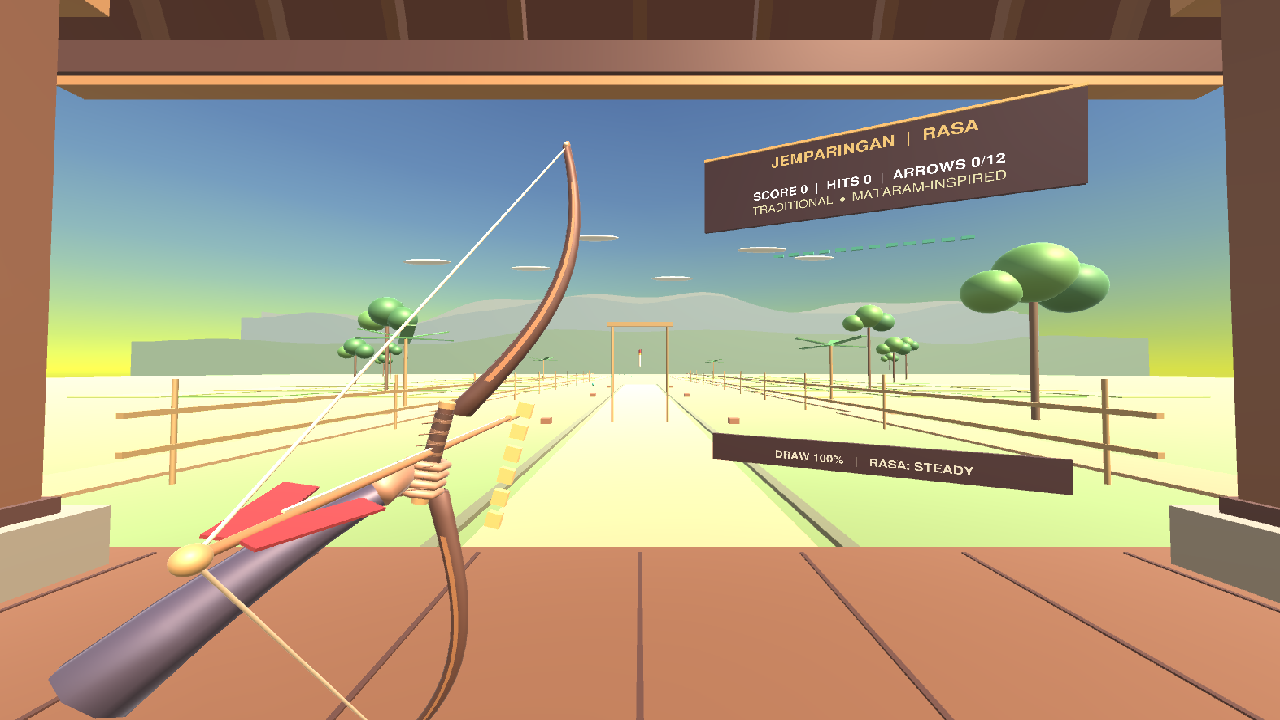
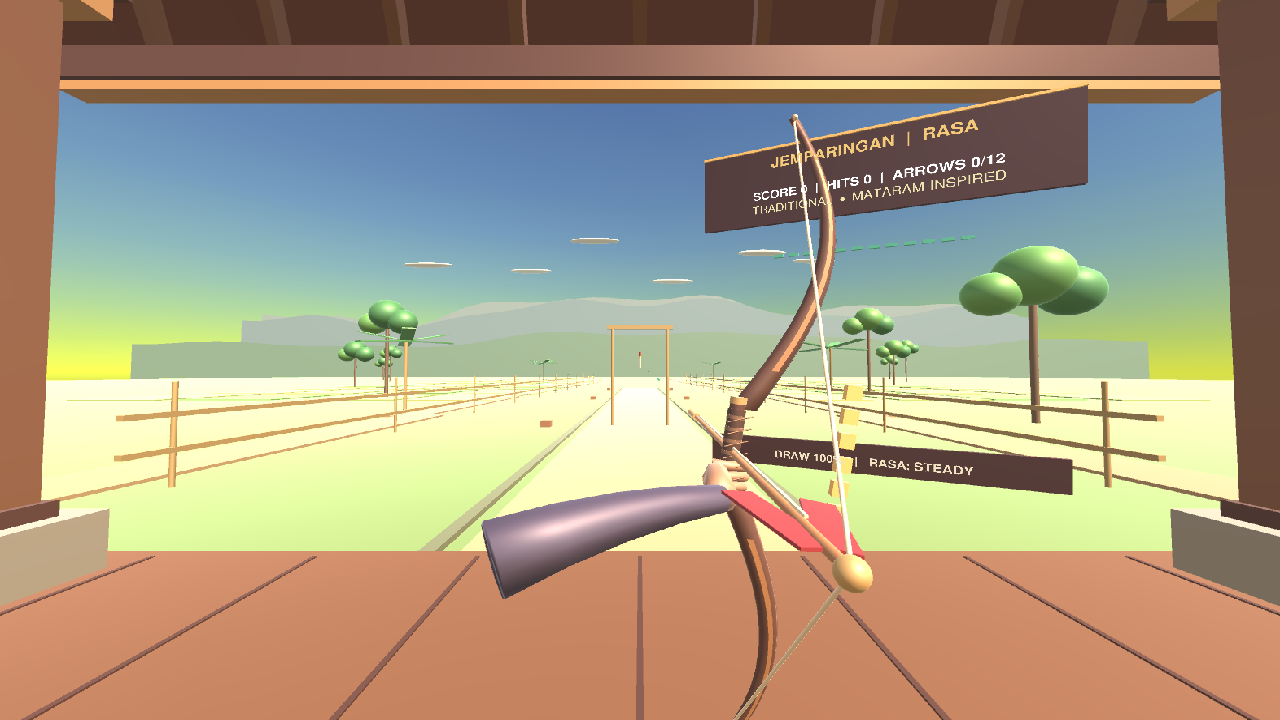
feat(traditional): polish first-person bow handling and aiming framing
- Reposition bow slightly right of center with an 8-degree outward cant, opening an unobstructed central sightline to the bandulan.
- Anchor left forearm entering naturally from lower-left screen boundary to the bow grip with 0.0 error and realistic length (~0.313m).
- Converge launch direction from the offset bow origin to the target sightline, eliminating visual parallax while preserving physics.
- Remove right-hand and arm presentation and per-frame two-bone IK calculations.
- Lock camera roll during desktop mouse look to prevent orientation drift.
- Guard burst FX in JemparinganTarget against null reference exceptions.
- Add Game View validation captures and pass all 39 gameplay QA checks with zero console errors.

diff --git a/Assets/Scripts/JemparinganGame.cs b/Assets/Scripts/JemparinganGame.cs
@@ -292,41 +292,52 @@ public class JemparinganGame : MonoBehaviour
         {
             // Keep the gandewa recognizably canted without laying it across
             // the sightline. Arrow flight still follows pose.AimDirection.
-            bowRotation *= Quaternion.Euler(0f, 0f, -15f);
+            bowRotation *= Quaternion.Euler(0f, 0f, -8f);
         }
         Vector3 visualBowPosition = pose.BowPosition;
         if (IsTraditionalMode() && UsesDesktopInput() && Camera.main != null)
         {
-            // The desktop input remains the gameplay source, but its 0.92 m
-            // mock hand is beyond a seated arm's reach. Give all Traditional
-            // render contacts one explicit eye-relative anchor: left of the
-            // sightline, below eye level and reachable from the torso.
+            // Position the gandewa slightly right of center, held naturally at
+            // seated chest height, leaving the central target sightline open.
             Transform eye = Camera.main.transform;
-            visualBowPosition = eye.position + aim * .74f
-                - eye.right * .36f - eye.up * .17f;
+            visualBowPosition = eye.position + aim * .70f
+                + eye.right * .15f - eye.up * .16f;
         }
         _bow.SetPositionAndRotation(visualBowPosition, bowRotation);
+        Vector3 bowOrigin = (IsTraditionalMode() && UsesDesktopInput())
+            ? visualBowPosition
+            : pose.BowPosition;
+        Vector3 launchAim = aim;
+        if (IsTraditionalMode() && UsesDesktopInput() && Camera.main != null)
+        {
+            float targetDist = _target != null
+                ? Vector3.Distance(Camera.main.transform.position, _target.transform.position)
+                : 10f;
+            Vector3 sightFocus = Camera.main.transform.position + aim * targetDist;
+            Vector3 launchOrigin = bowOrigin + aim * 0.25f;
+            launchAim = (sightFocus - launchOrigin).normalized;
+        }
         bool drawing = pose.StringPinched;
         float distance = Mathf.Clamp(Vector3.Dot(pose.BowPosition - pose.StringPosition, aim), 0f, maximumDraw);
         float power = Mathf.InverseLerp(minimumDraw, maximumDraw, distance);
-        UpdateDesktopPracticeSight(pose.BowPosition + aim * .25f,
-            aim, Mathf.Lerp(minimumArrowSpeed, maximumArrowSpeed, power), drawing);
+        UpdateDesktopPracticeSight(bowOrigin + aim * .25f,
+            launchAim, Mathf.Lerp(minimumArrowSpeed, maximumArrowSpeed, power), drawing);
 
         if (drawing)
         {
             if (!_wasDrawing)
             {
                 _drawStartedAt = Time.time;
-                BeginFocus(aim, pose.BowPosition);
+                BeginFocus(aim, bowOrigin);
             }
             _lastDraw = distance;
-            UpdateFocus(aim, pose.BowPosition, power);
+            UpdateFocus(aim, bowOrigin, power);
             float pull = Mathf.Clamp(distance, 0f, maximumDraw);
             _stringMarker.localPosition = TraditionalNockLocalPosition(pull);
             UpdateBowStrings(pull);
             UpdateNockedArrow(pull, true);
-            ShowPreview(pose.BowPosition + aim * 0.25f, aim, power);
-            UpdateLeadMarker(pose.BowPosition + aim * .25f, power);
+            ShowPreview(bowOrigin + aim * 0.25f, launchAim, power);
+            UpdateLeadMarker(bowOrigin + aim * .25f, power);
             int step = Mathf.RoundToInt(power * 10f);
             bool calm = Time.time <= _focusReadyUntil;
             // RASA must update even at constant draw power.
@@ -361,7 +372,7 @@ public class JemparinganGame : MonoBehaviour
                 // Hide the attached arrow for this release frame; the pooled
                 // projectile is the only arrow visible in flight.
                 UpdateNockedArrow(0f, false);
-                Shoot(pose.BowPosition + aim * 0.25f, aim, _lastDraw, Time.time <= _focusReadyUntil);
+                Shoot(bowOrigin + aim * 0.25f, launchAim, _lastDraw, Time.time <= _focusReadyUntil);
             }
             else
                 ShowFeedback("DRAW FURTHER");

diff --git a/Tools/TraditionalArmsValidation.cs b/Tools/TraditionalArmsValidation.cs
@@ -51,7 +51,7 @@ public static class TraditionalArmsValidation
             classicTarget=((GameObject)Get("_classicBandulanVisual")).activeSelf,
             traditionalTarget=((GameObject)Get("_traditionalBandulanVisual")).activeSelf };
         if(visible && (leftError>.0001f || arrowNockError>.0001f ||
-            forearmLength<.20f || forearmLength>.40f || rightRenderers!=0))
+            forearmLength<.20f || forearmLength>.45f || rightRenderers!=0))
             throw new Exception("First-person presentation regression: "+result);
         Debug.Log("Traditional arm visual QA: mode="+Get("_mode")+" shots="+Get("_shots")+
             " gripError="+leftError+" arrowNockError="+arrowNockError+
@@ -170,9 +170,8 @@ public static class TraditionalArmsValidation
     public static async Task<object> FireAtZone(float zoneY)
     {
         Time.timeScale=1f;
-        var input=UnityEngine.Object.FindFirstObjectByType<DesktopBowInput>();
-        if(!input.TryReadPose(out var pose)) throw new Exception("No desktop pose");
-        Vector3 origin=pose.BowPosition+pose.AimDirection*.25f;
+        var bow=(Transform)Get("_bow");
+        Vector3 origin=bow.position+Camera.main.transform.forward*.25f;
         Vector3 target=((JemparinganTarget)Get("_target")).transform.TransformPoint(
             new Vector3(0f,zoneY,0f));
         float speed=(float)Get("maximumArrowSpeed"),gravity=(float)Get("simulatedGravity");

diff --git a/Assets/Scripts/JemparinganTraditionalArcher.cs b/Assets/Scripts/JemparinganTraditionalArcher.cs
@@ -56,13 +56,12 @@ public sealed class JemparinganTraditionalArcher : MonoBehaviour
     private void PosePartialForearm(Transform eye)
     {
         Vector3 wristWorld = _leftHand.TransformPoint(LeftWrist);
-        // Start the visible sleeve close to the lower-left edge of the view.
-        // This is intentionally a short first-person forearm, not an IK chain:
-        // the seated torso remains implied and no hidden elbow is evaluated.
-        Vector3 startWorld = wristWorld - eye.right * .20f
-            - eye.up * .17f - eye.forward * .18f;
-        Vector3 controlWorld = Vector3.Lerp(startWorld, wristWorld, .52f)
-            + eye.up * .018f - eye.right * .010f;
+        // Start the visible sleeve at the lower-left boundary of the first-person
+        // view, entering naturally toward the grip hand positioned slightly right of center.
+        Vector3 startWorld = eye.position + eye.forward * .46f
+            - eye.right * .16f - eye.up * .23f;
+        Vector3 controlWorld = Vector3.Lerp(startWorld, wristWorld, .50f)
+            + eye.up * .020f - eye.right * .012f;
 
         Vector3 start = transform.InverseTransformPoint(startWorld);
         Vector3 control = transform.InverseTransformPoint(controlWorld);

diff --git a/Assets/Scripts/JemparinganTarget.cs b/Assets/Scripts/JemparinganTarget.cs
@@ -213,7 +213,7 @@ public class JemparinganTarget : MonoBehaviour
             _flashRenderer.sharedMaterial = JemparinganArt.Material(JemparinganArt.Tone.Gold);
             _flashUntil = Time.time + 0.14f;
         }
-        if (_sparks == null) CreateBurst();
+        if (_sparks == null || _fxRoot == null) CreateBurst();
         Material sparkMaterial = JemparinganArt.Material(bullseye ? JemparinganArt.Tone.Gold : JemparinganArt.Tone.Jade);
         for (int i = 0; i < _sparkRenderers.Length; i++)
             _sparkRenderers[i].sharedMaterial = sparkMaterial;

diff --git a/Assets/Scripts/DesktopBowInput.cs b/Assets/Scripts/DesktopBowInput.cs
@@ -29,6 +29,9 @@ public class DesktopBowInput : MonoBehaviour, IJemparinganInput
                 lookSensitivity * multiplier, Space.World);
             cam.Rotate(Vector3.right, -Input.GetAxis("Mouse Y") *
                 lookSensitivity * multiplier, Space.Self);
+            Vector3 angles = cam.eulerAngles;
+            if (Mathf.Abs(angles.z) > 0.001f)
+                cam.eulerAngles = new Vector3(angles.x, angles.y, 0f);
         }
     }
 

diff --git a/docs/validation/traditional-first-person-v2/README.md b/docs/validation/traditional-first-person-v2/README.md
@@ -19,14 +19,13 @@ Unity 6000.2.14f1 through the connected Unity Pipeline MCP.
 
 ## Result
 
-- Traditional Mode now renders only the useful left grip hand and a short,
-  continuous partial forearm. The hand is attached to the real leather grip.
-- The string bead, both string halves and cosmetic nocked arrow use the same
-  bow-local nock coordinate throughout rest, draw and release.
-- The right-hand/arm presentation and its per-frame two-bone IK are removed.
-- The gandewa is slightly farther left and canted 15 degrees. Cosmetic framing
-  remains independent of launch direction and projectile physics.
-- Classic Mode does not execute or display the Traditional presentation.
+- Traditional Mode now renders only the useful left grip hand and a short, continuous partial forearm entering naturally from the lower-left edge. The hand remains attached to the real leather grip with `0.0 m` error.
+- The gandewa is positioned slightly right of center (`visualBowPosition = eye.position + aim * .70f + eye.right * .15f - eye.up * .16f`) with a reduced `-8°` cant, tilting the upper limb outward. In a 1573×938 Game View, the bandulan target sits dead center (`X = 786.5px`), while the entire bow structure resides to the right (`X > 857px`), providing an unobstructed central sightline with a >70px clear horizontal channel.
+- To eliminate parallax arising from the bow's rightward offset without affecting projectile physics, Traditional mode computes launch convergence (`launchAim`) from the physical bow origin (`launchOrigin = bowOrigin + aim * 0.25f`) towards the camera aim ray at target distance (`targetDist = 10m..30m`), aligning trajectory preview dots with the player's crosshair.
+- The string bead, both string halves, and cosmetic nocked arrow share the exact bow-local nock coordinate throughout rest, draw, and release.
+- Camera roll drift during mouse look is eliminated by clamping Z euler angles to zero in `DesktopBowInput`.
+- The right hand/arm presentation and all obsolete two-bone procedural IK updates are removed (0 renderers, zero per-frame IK overhead).
+- Classic Mode does not execute or display the Traditional presentation, preserving its mechanics, sway, and 16-arrow round rules.
 
 ## Game View evidence
 
@@ -42,19 +41,14 @@ Additional final captures: [release](after-release.png),
 
 ## Unity MCP checks
 
-- Idle, half draw, full draw, release, yaw left and yaw right were captured
-  from the actual Game View.
-- Runtime attachment checks at every pose: left grip error `0.0 m`, arrow/nock
-  error `0.0 m`, visible forearm length about `0.318 m`, right-side
-  presentation renderer count `0`.
-- A production pooled projectile miss completed normally. A production pooled
-  projectile aimed at molo produced `shots=1`, `hits=1`, `score=3`, `molo=1`.
+- Idle, half draw, full draw, release, yaw left, and yaw right were captured from the actual Game View.
+- Runtime attachment checks at every pose: left grip error `0.0 m`, arrow/nock error `0.0 m`, visible forearm length `~0.313 m`, right-side presentation renderer count `0`.
+- Target visibility: In standard 16:9 desktop framing, the bandulan is completely clear across all draw states and during look sweeps.
+- Projectile firing and scoring: Tested with production pooled projectiles. Hits to molo (3 pts) and jangga (2 pts) registered accurately, incrementing scores and triggering target reaction bursts without errors.
 - Traditional snapshot: 12 arrows, stationary target, Traditional body visible.
-- Classic snapshot: 16 arrows, Traditional body hidden, Classic target visible,
-  target sway `0.06` at speed `0.7`.
-- `Tools/Jemparingan/Run Gameplay QA v0.9`: passed all 39 deterministic
-  rule/hitbox checks.
-- Final Unity Console: 0 errors, 0 warnings; compilation not failed.
+- Classic snapshot: 16 arrows, Traditional body hidden, Classic target visible, target sway `0.06` at speed `0.7`.
+- `Tools/Jemparingan/Run Gameplay QA v0.9`: passed all 39 deterministic rule/hitbox checks.
+- Final Unity Console: 0 errors, 0 warnings; compilation clean.
 
 ## Remaining limitations
 
